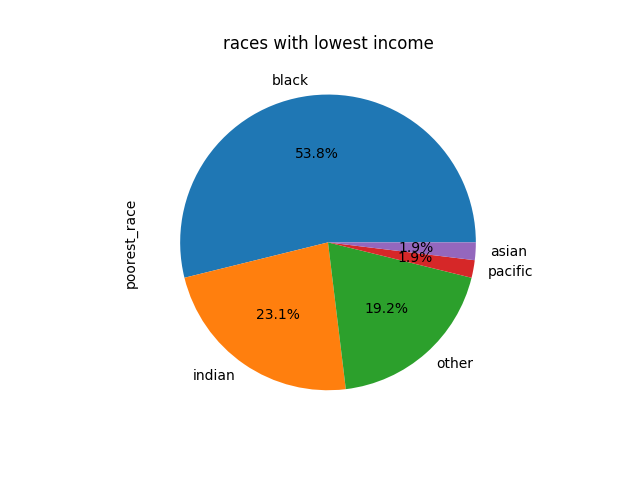
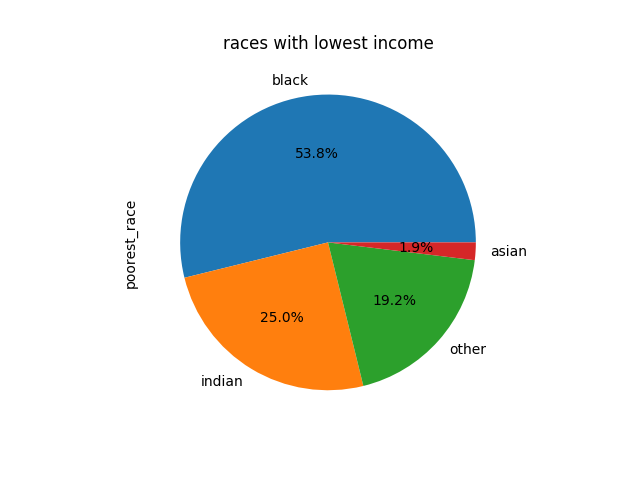
get ride of pacific and two or more races for consistency purpose

diff --git a/service/data_manipulator.py b/service/data_manipulator.py
@@ -20,6 +20,7 @@ class DataManipulator():
         data = pd.read_csv(DataManipulator.data_file, decimal=",")
         # Rename columns with shorter names
         data.columns = ["state", "white", "error1", "black", "error2", "indian", "error3", "asian", "error4", "pacific", "error5", "other", "error6", "two_or_more_races", "error7"]
+        data = data.drop(["pacific", "error5", "two_or_more_races", "error7"], axis=1)
         data = cls.keep_numbers_only(data)
         data = cls.find_max_and_min_incomes(data)
         data = cls.add_state_location(data)
@@ -46,7 +47,7 @@ class DataManipulator():
     def find_max_and_min_incomes(data):
         """Add data about the richest and poorest race in eahc state"""
         # Keep only data related to incomes by race
-        races_values = data[["white", "asian", "black", "indian", "pacific", "other", "two_or_more_races"]]
+        races_values = data[["white", "asian", "black", "indian", "other"]]
         # Add column with richest race and highest income for each state
         data["richest_race"] = races_values.idxmax(axis=1)
         data["richest"] = races_values.max(axis=1)

diff --git a/service/figure_generator.py b/service/figure_generator.py
@@ -32,9 +32,7 @@ class FigureGenerator():
         """Generate histograms to show distribution of median incomes
         for each race with global mean and median in description"""
         # Keep only the incomes by race
-        subset = cls.data[["white", "asian", "black", "indian", "pacific", "other", "two_or_more_races"]]
-        # Turn pacific column to float, if not mean and median does not work
-        subset["pacific"] = subset["pacific"].astype(float)
+        subset = cls.data[["white", "asian", "black", "indian", "other"]]
         # Create one histogram by race for incomes
         for label, column in subset.iteritems():
             mean = int(round(column.mean(skipna=True)))

diff --git a/data/geographical_information.py b/data/geographical_information.py
@@ -38,7 +38,8 @@ states_location = {
         "Rhode Island",
         "South Dakota",
         "Vermont",
-        "Wisconsin"
+        "Wisconsin",
+        "District of Columbia"
     ],
     "western": [
         "Alaska",
